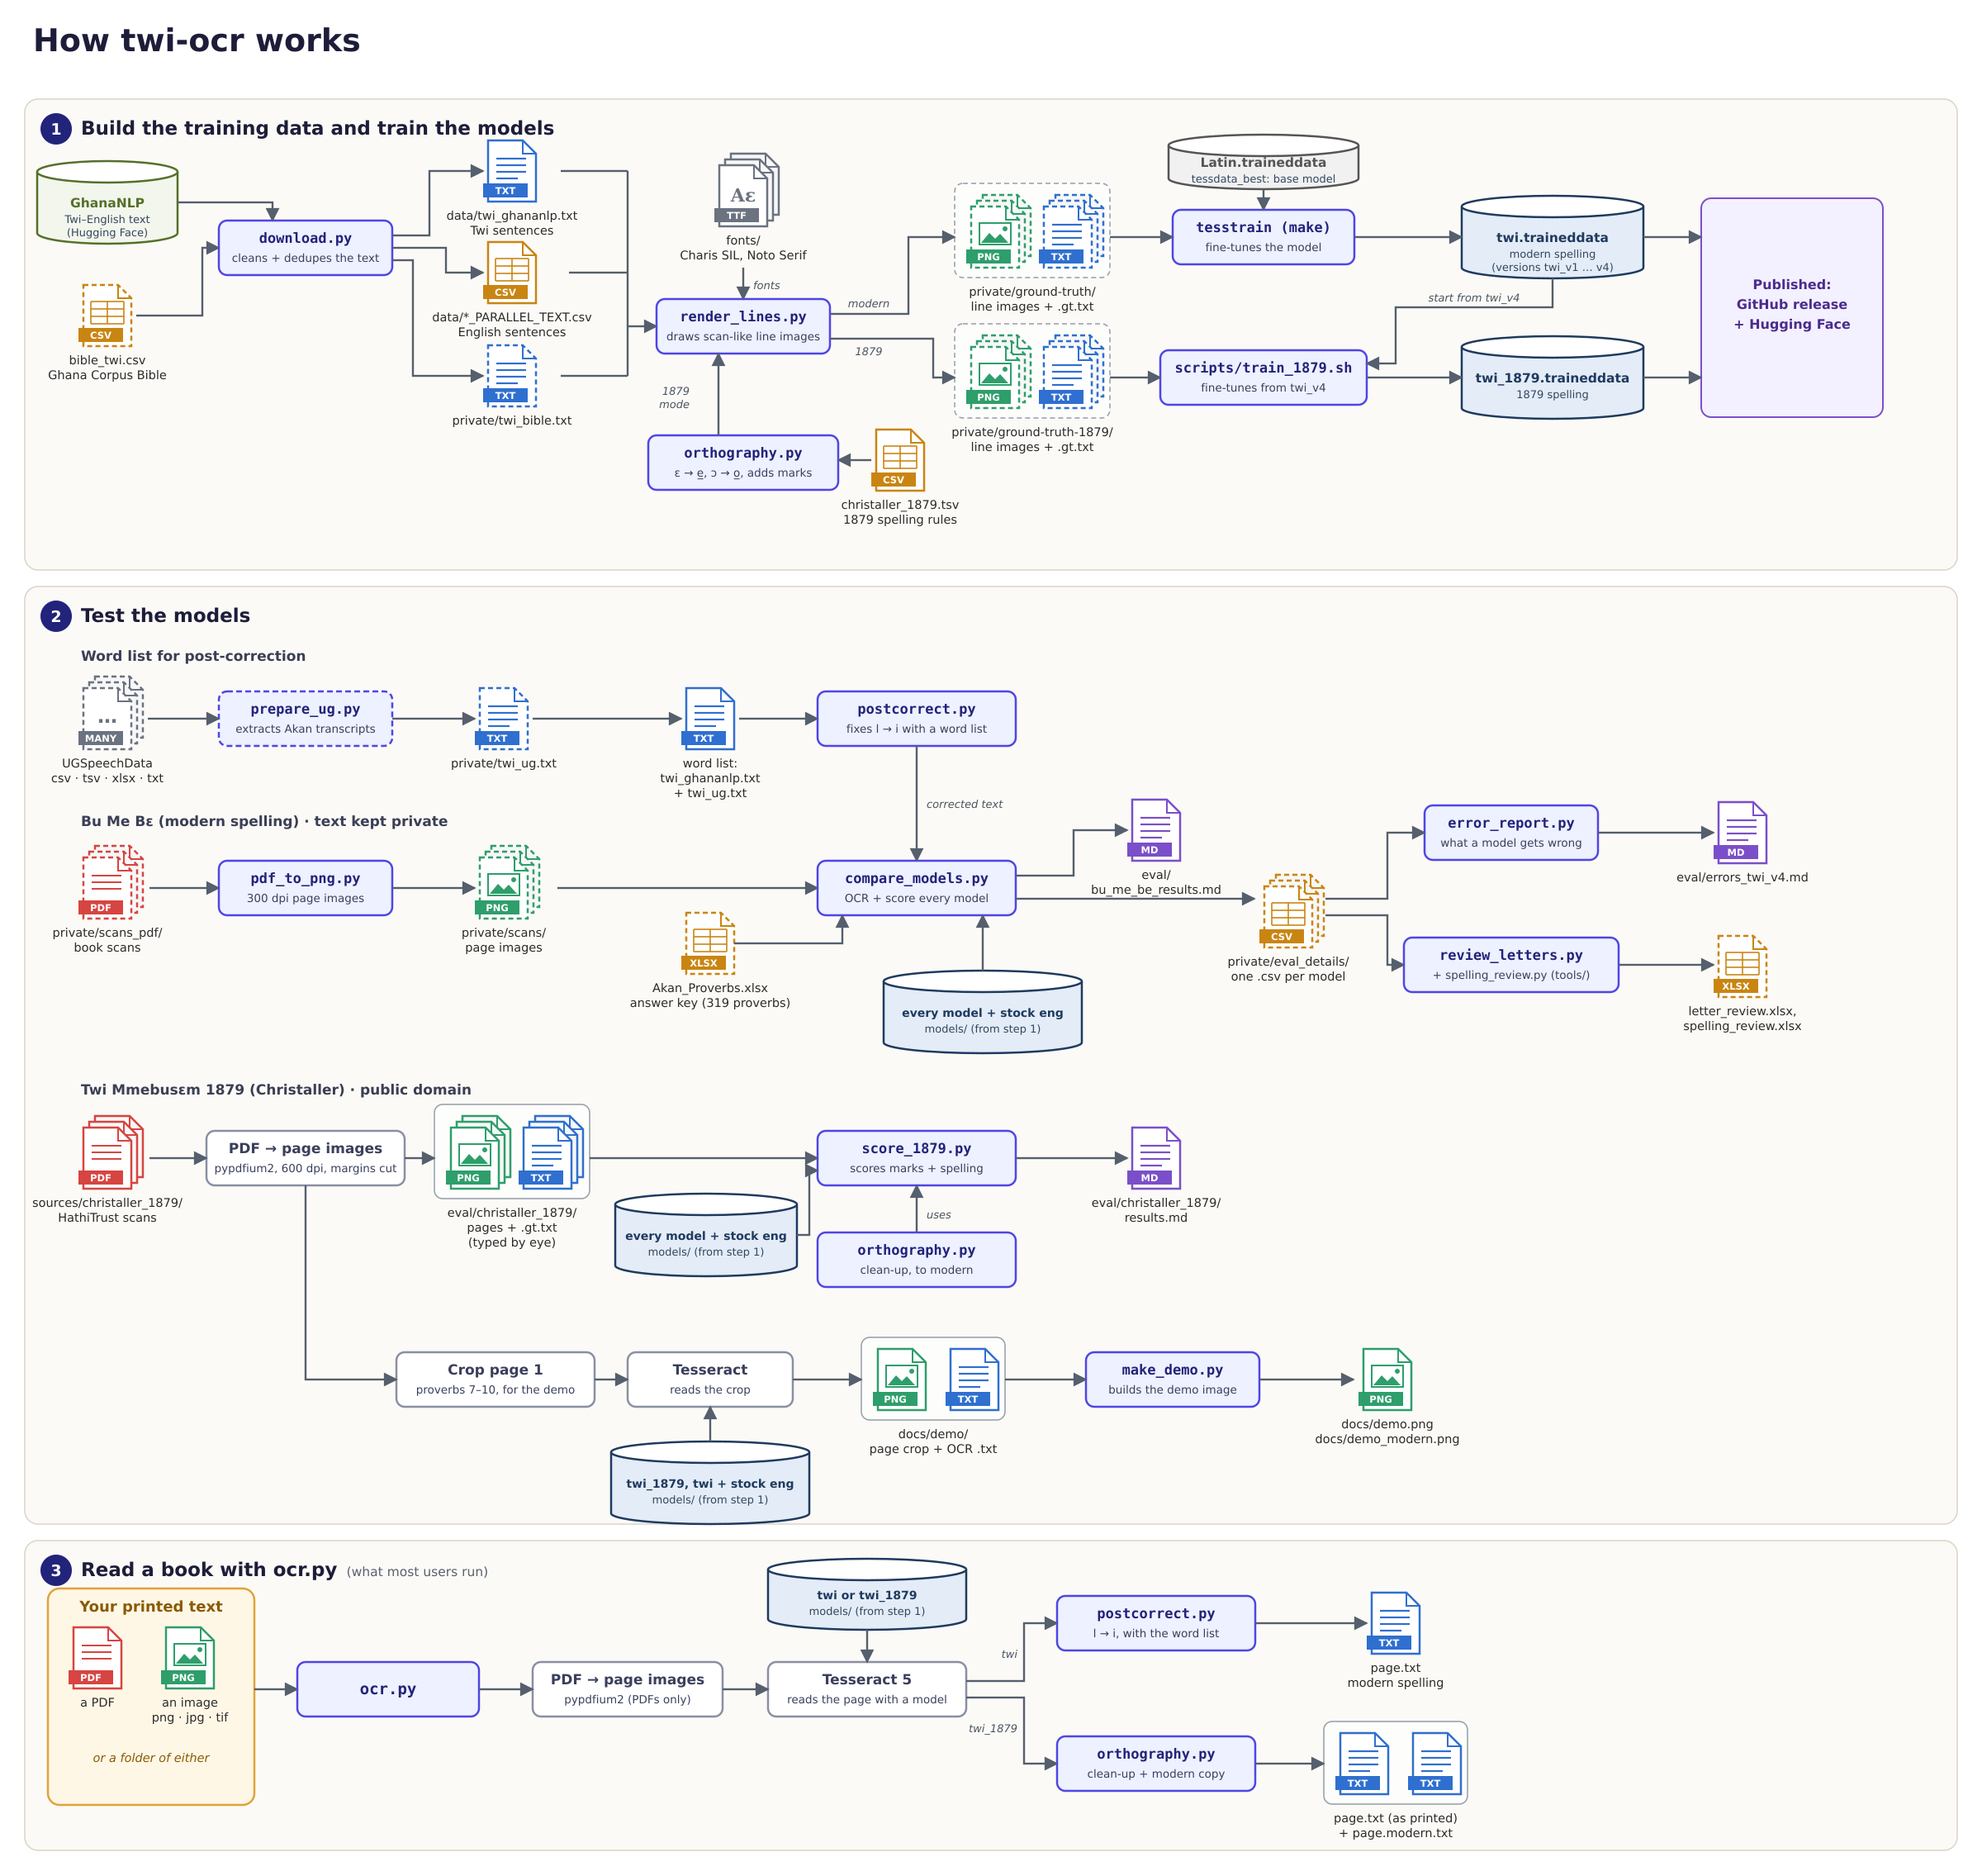
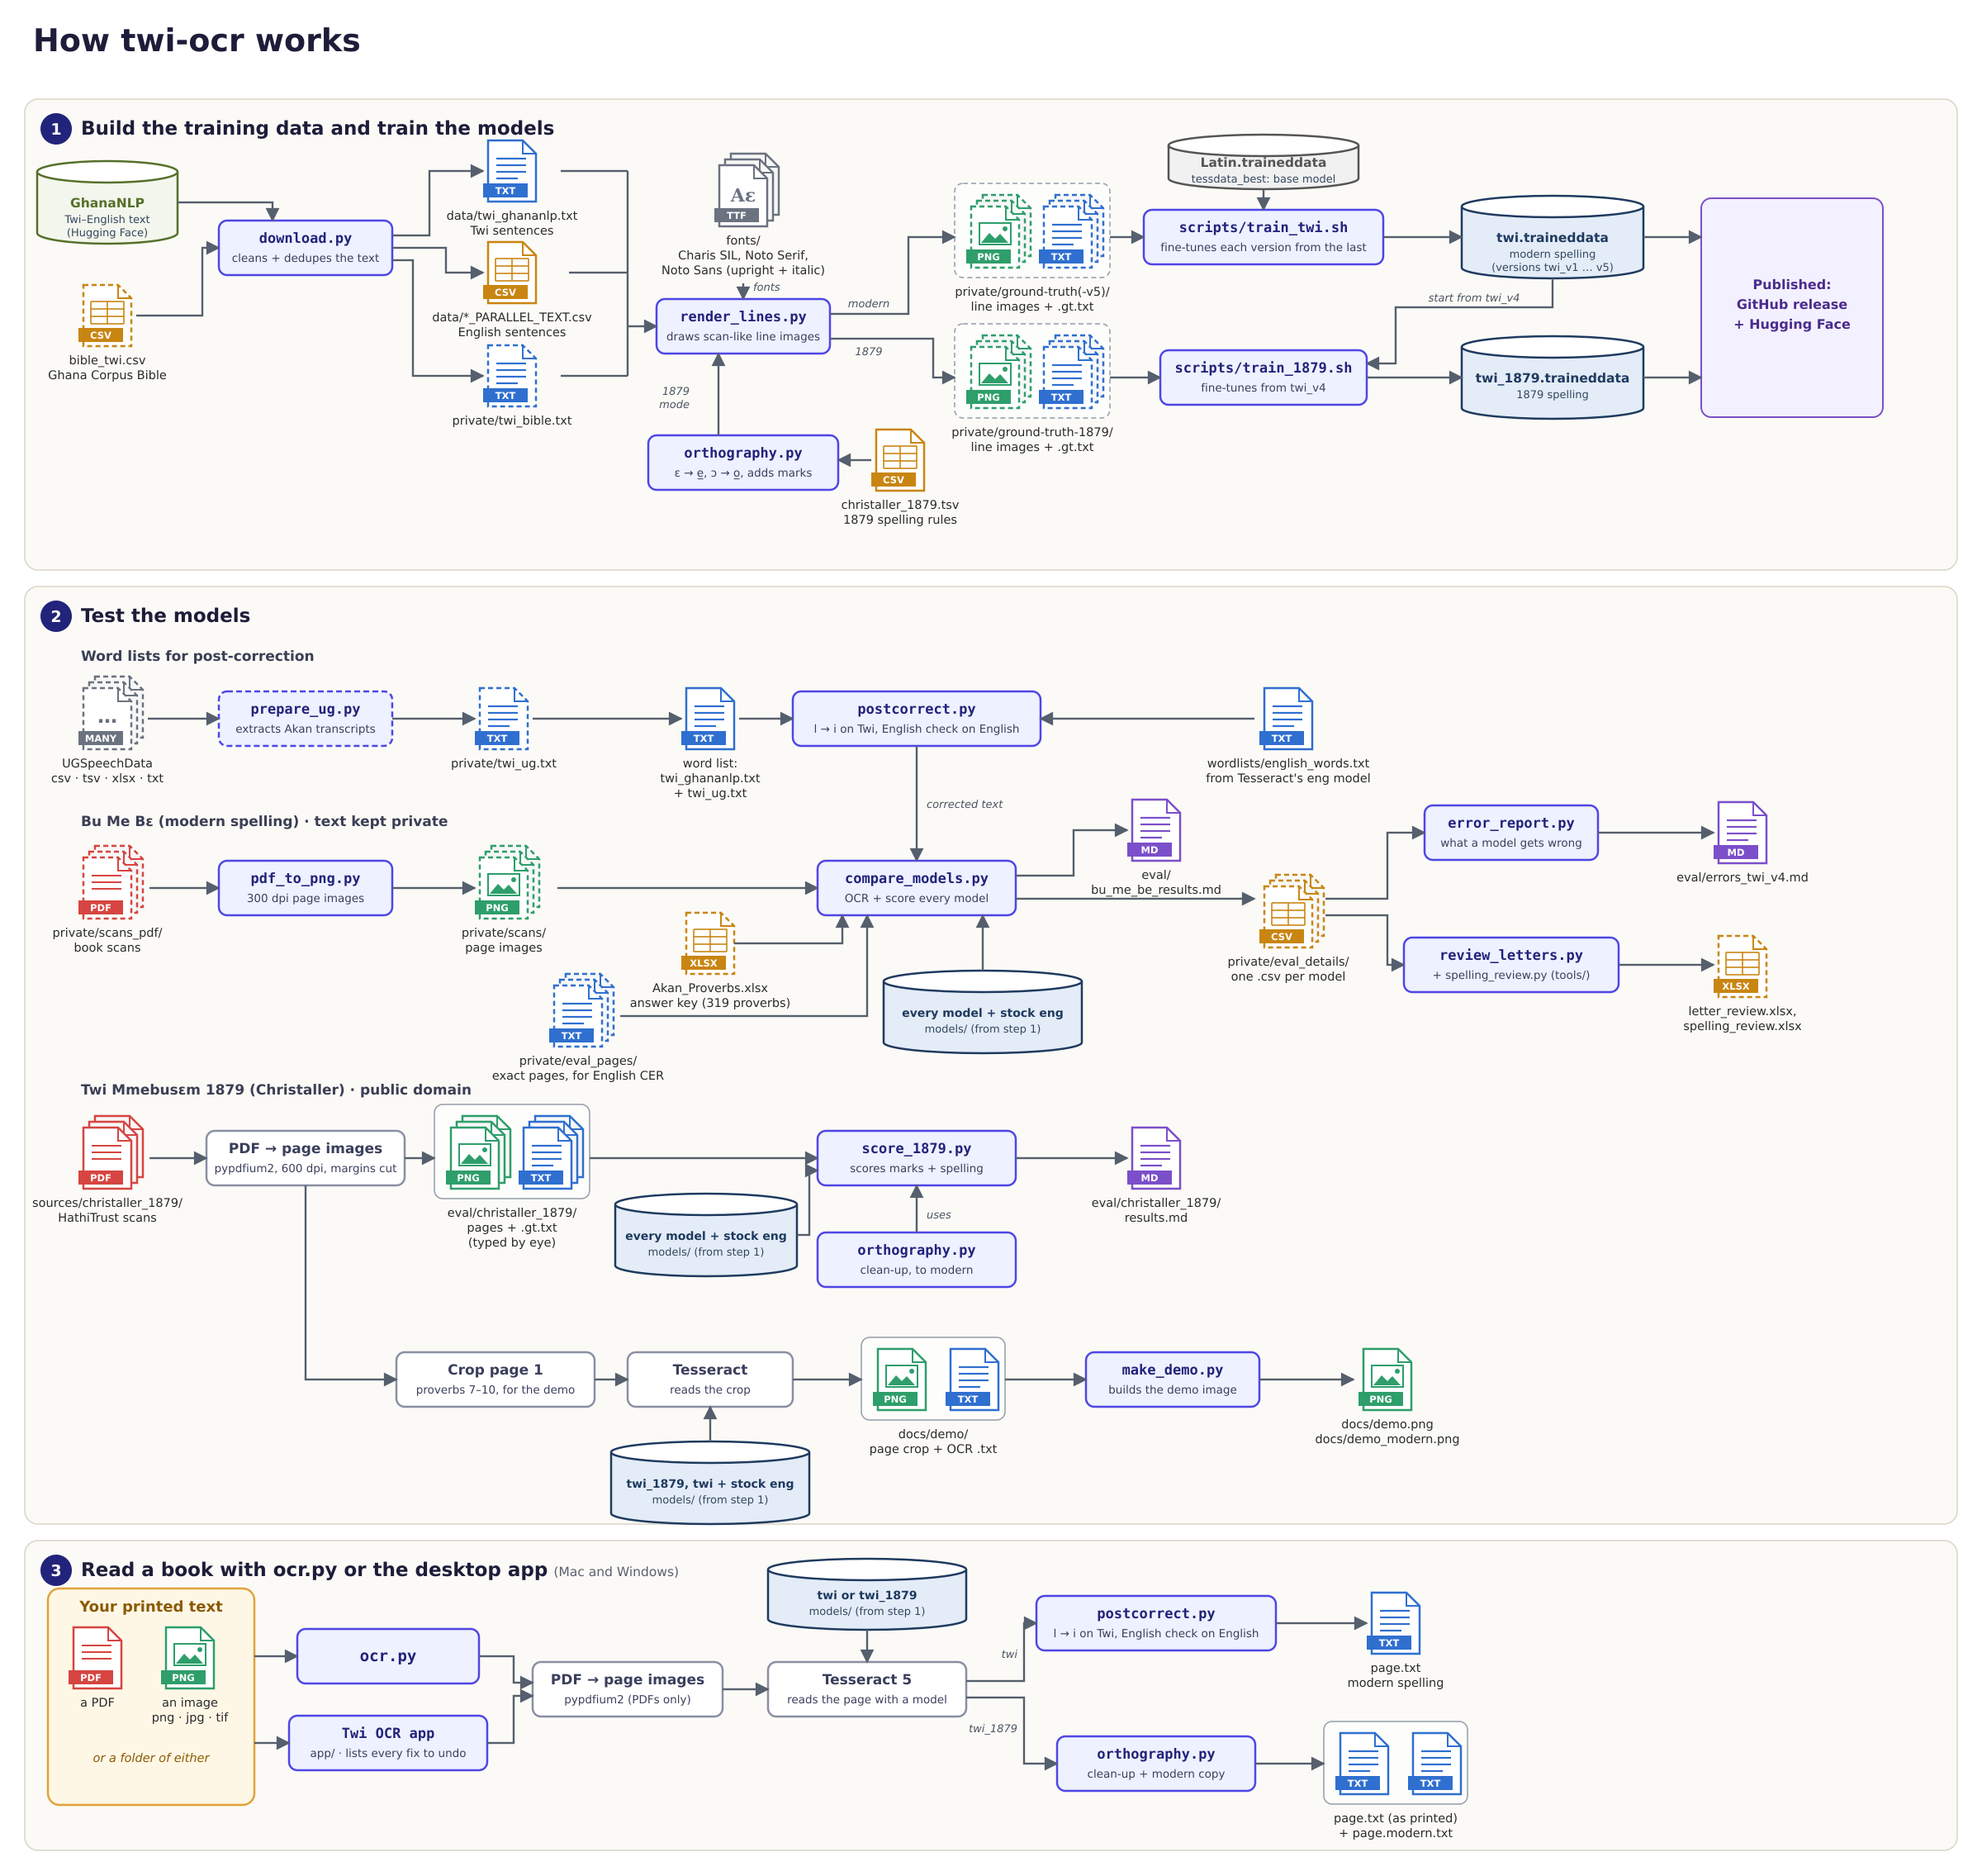
Workflow diagram: English check, twi_v5, desktop app; ocr.py uses the English check

diff --git a/ocr.py b/ocr.py
@@ -1,9 +1,12 @@
 """Read printed Twi from images or PDFs with the Twi Tesseract model.
 
 This command: renders PDF pages, runs Tesseract with the Twi
-model, and (optionally) fixes the model's main mistake, "i" read as
-"l", using a Twi word list. Other letters are never changed, because e/ɛ and
-o/ɔ distinguish different words in Twi.
+model, and (optionally) fixes common misreadings line by line, as the desktop
+app does (postcorrect.correct_page). On Twi lines it fixes the model's main
+mistake, "i" read as "l", using a Twi word list; e/ɛ and o/ɔ are never
+changed there, because they distinguish different words in Twi. On English
+lines (the book's translations) it fixes clear English mistakes instead:
+"it Is" -> "it is", "wil!" -> "will", "ɔver" -> "over" (issue T7).
 
 Examples:
     python ocr.py page.png                      # print the text
@@ -21,7 +24,9 @@ Requirements:
     - pip install pillow pypdfium2        (pypdfium2 only for PDFs)
     - For --correct (on by default): the public word list built by
       `python download.py`, which writes data/twi_ghananlp.txt. Without it,
-      ocr.py prints a note and skips correction.
+      ocr.py prints a note and skips correction. The English word list,
+      wordlists/english_words.txt, is part of the project; without it only
+      the Twi fixes are made.
 
 1879 mode reads Christaller-era spelling (e̲ o̲ for ɛ ɔ, tildes, accents) with
 the twi_1879 model, and fixes two patterns the model gets wrong (see
@@ -109,7 +114,7 @@ def run_tesseract(image: Path, model: str, tessdata: Path, psm: int) -> str:
 # --- Post-correction ---------------------------------------------------------
 
 def load_corrector():
-    """Return a function that fixes l -> i, or None if no word list is available."""
+    """Return a function that corrects a page, or None if no Twi word list is available."""
     if not WORD_LIST.exists():
         print(f"Note: {WORD_LIST.relative_to(WORD_LIST.parent.parent)} not found, so "
               "i/l correction is off. Run `python download.py` once to enable it.",
@@ -118,7 +123,8 @@ def load_corrector():
     import postcorrect as pc
     pc.CONFUSIONS = pc.SWAP_SETS["i"]   # Only l/I/1 -> i; never e/ɛ or o/ɔ.
     vocab = pc.build_vocabulary([WORD_LIST])
-    return lambda text: pc.correct_text(text, vocab)
+    english = pc.load_english_words() or None   # Without it, every line gets the Twi fixes.
+    return lambda text: pc.correct_page(text, vocab, english)[0]
 
 
 # --- Main --------------------------------------------------------------------
@@ -139,7 +145,7 @@ def main() -> None:
                         help="Tesseract page segmentation mode (default 3: full page, or 6 "
                              "with --orthography 1879; 6: one block of text; 7: a single line)")
     parser.add_argument("--no-correct", dest="correct", action="store_false",
-                        help="Skip the i/l word-list correction")
+                        help="Skip the word fixes (i/l in Twi, clear English mistakes)")
     args = parser.parse_args()
 
     old_style = args.orthography == "1879"

diff --git a/README.md b/README.md
@@ -67,7 +67,7 @@ The book's own key to the letters explains most of the marks: line below = open 
 
 ## How it works
 
-![Diagram of the twi-ocr workflow in three parts: building the training data and training the models, testing the models on Bu Me Bɛ and the 1879 book, and reading a PDF or image with ocr.py. It shows which scripts read and write which PDF, image, text and table files, and which files are private.](docs/workflow.png)
+![Diagram of the twi-ocr workflow in three parts: building the training data and training the models, testing the models on Bu Me Bɛ and the 1879 book (including the word fixes and the English check), and reading a PDF or image with ocr.py or the desktop app. It shows which scripts read and write which PDF, image, text and table files, and which files are private.](docs/workflow.png)
 
 1. **Text:** Twi sentences are collected from GhanaNLP and the Ghana Corpus, cleaned, and standardized (for example, Greek ε is replaced with Twi ɛ).
 2. **Training images:** the text is rendered as scan-like line images in fonts that contain ɛ and ɔ, styled after the book (capitals, proverb numbers, curly quotes).
